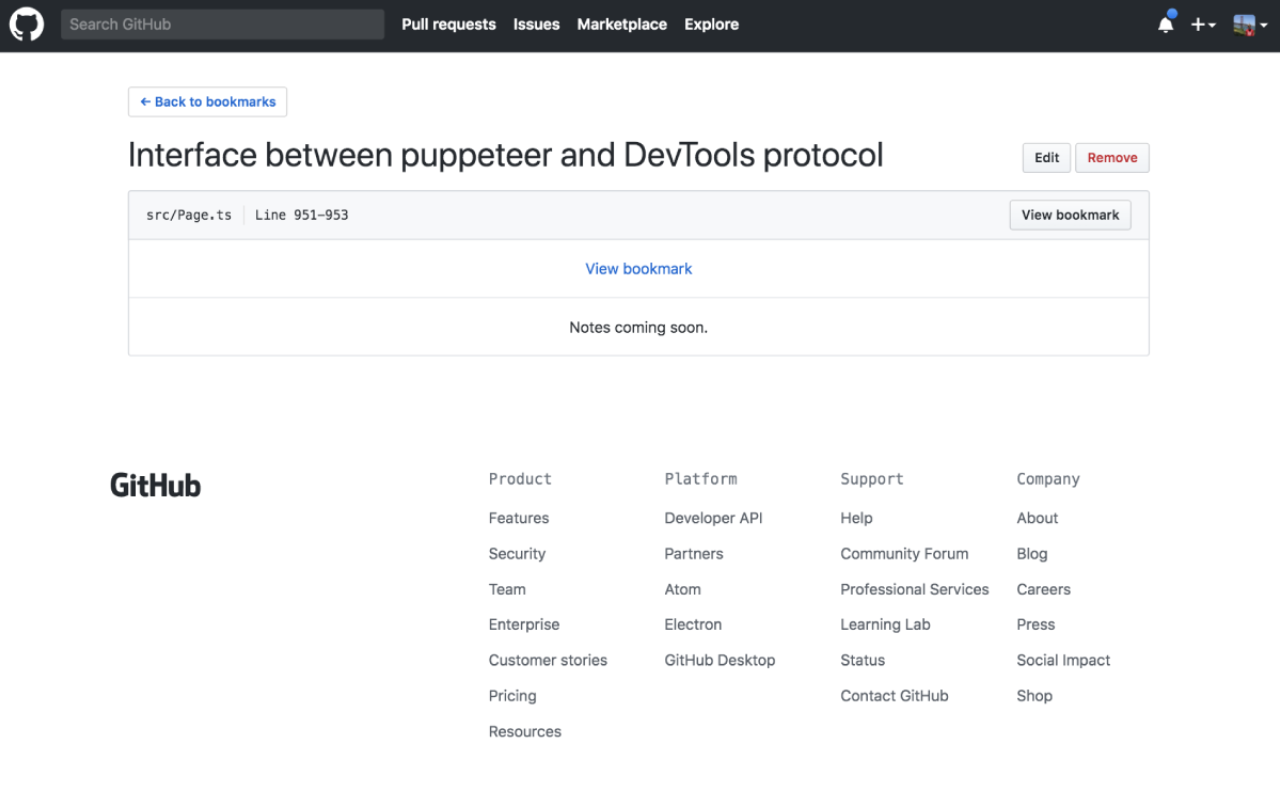
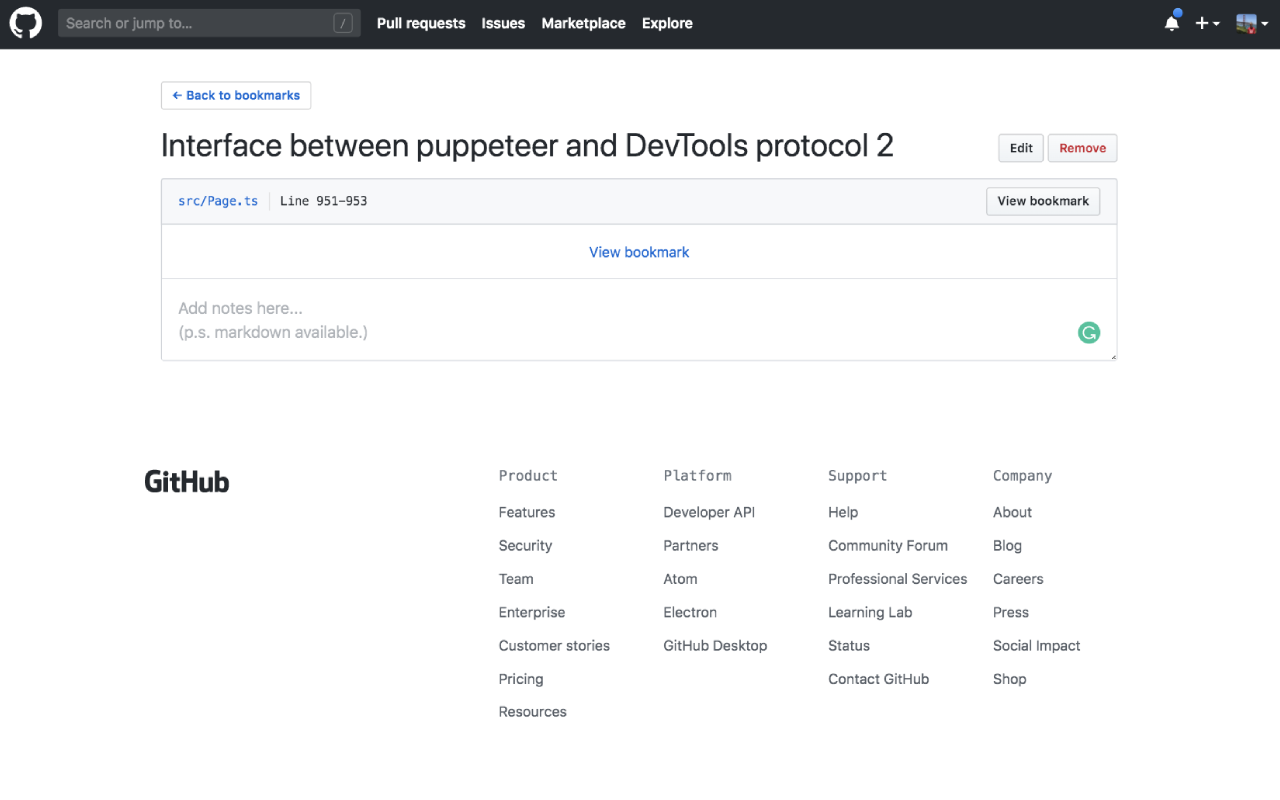
Indicate availability of markdown.

diff --git a/src/templates/bookmarks/show-notes.js b/src/templates/bookmarks/show-notes.js
@@ -21,7 +21,7 @@ export default (notes) => {
           class="d-block border-0 p-3 js-notes-textarea"
           spellcheck="false"
           style="min-width: 100%;"
-          placeholder="Add notes here..."
+          placeholder="Add notes here...\n(p.s. markdown available.)"
           hidden
         >${notes}</textarea>
       </div>

diff --git a/src/shared/markdown.js b/src/shared/markdown.js
@@ -1,6 +1,6 @@
 import marked from 'marked';
 
-export const parseMd = (markdown) => postProcess(marked(markdown));
+export const parseMd = (markdown) => postProcess(marked(markdown || ''));
 
 const postProcess = (markdownHTML) => {
   const parsers = [addCodePreWrapper];
